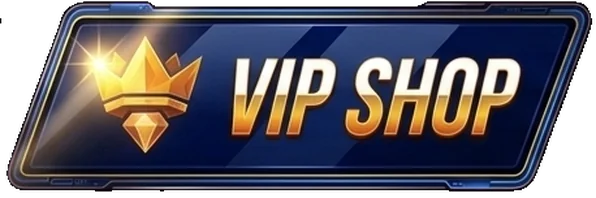
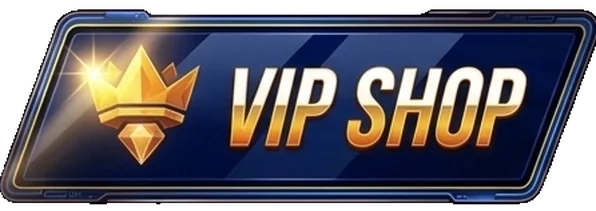
VIP shop: fixed-size shine frames, 5s interval, native window and diamond slot
- Re-cut the nine VIP button shine frames at one fixed crop size, centred on the button body, so every frame is identical in size and position
- Button sized by width only (no stretch), anchored top-left
- Shine interval 10s -> 5s
- VIP window at native 1920x1080; item grid sits in the content area
- Slots use the diamond item slot (vip_slot_q85.webp), not the inventory slot
- Bump ui.js cache tag

Claude-Session: https://claude.ai/code/session_01W4v7cyzS6Fr8aMVaGgywWE

diff --git a/index.html b/index.html
@@ -658,7 +658,7 @@
         #view-quests.float-page .ts-inner, #view-setting.float-page .ts-inner, #view-shop.float-page .ts-inner, #view-blacksmith.float-page .ts-inner, #view-market.float-page .ts-inner, #view-vip.float-page .ts-inner { background: transparent !important; }
         /* VIP shop slots: inventory slot size, diamond price under each */
         .vip-cell { display: flex; flex-direction: column; align-items: center; width: 108px; }
-        .vip-slot { position: relative; width: 108px; height: 104px; padding: 0; border: 0; background: url(assets/pages/character/inventoryslot2.png) 0 0 / 100% 100% no-repeat; cursor: pointer; }
+        .vip-slot { position: relative; width: 108px; height: 104px; padding: 0; border: 0; background: url(assets/diamond/vip/vip_slot_q85.webp) 0 0 / 100% 100% no-repeat; cursor: pointer; }
         .vip-slot img { position: absolute; inset: 10px; width: calc(100% - 20px); height: calc(100% - 20px); object-fit: contain; }
         .vip-slot:hover { filter: brightness(1.15); }
         .vip-price { margin-top: 6px; display: flex; align-items: center; justify-content: center; gap: 6px; font-size: 22px; font-weight: 800; color: #fde68a; white-space: nowrap; text-shadow: 0 2px 4px #000; }
@@ -1208,8 +1208,8 @@
             <div class="ui" data-action="blacksmith" style="left:465px; top:858px; width:206px; height:209px;">
                 <img src="assets/page01/articanbutton_q85.webp" alt="" onerror="townSwap(this,'articanbutton.png')">
             </div>
-            <div class="ui" data-action="vip" style="left:24px; top:347px; width:298px; height:99px;">
-                <img id="vip-btn-img" src="assets/diamond/vip/vip_btn_1_q85.webp" alt="VIP Shop" style="width:100%; height:100%; display:block;">
+            <div class="ui" data-action="vip" style="left:24px; top:347px; width:298px;">
+                <img id="vip-btn-img" src="assets/diamond/vip/vip_btn_1_q85.webp" alt="VIP Shop" style="width:100%; height:auto; display:block;">
             </div>
             <div class="ui" data-action="expedition" style="left:1565px; top:934px; width:300px; height:96px;">
                 <img class="exp-glow" src="assets/page01/expedition_v3_q85.webp" alt="Expedition">
@@ -1450,8 +1450,8 @@
                         <img class="ret-normal" src="assets/cha/button/returnbuttonsmall_q85.webp" alt="">
                         <img class="ret-press" src="assets/cha/button/returnbuttonpresssmall_q85.webp" alt="">
                     </div>
-                    <img class="art-frame" src="assets/diamond/vip/vip_window_q85.webp" alt="" style="left:300px; top:160px; width:1320px; height:737px;">
-                    <div id="vip-grid" style="position:absolute; z-index:3; left:377px; top:261px; width:1166px; height:614px; box-sizing:border-box; padding:36px 44px; overflow-y:auto; background:url(assets/diamond/vip/vip_slots_q85.webp) 0 0 / 100% 100% no-repeat; display:grid; grid-template-columns:repeat(auto-fill, 108px); justify-content:center; gap:34px 28px; align-content:start;"></div>
+                    <img class="art-frame" src="assets/diamond/vip/vip_window_q85.webp" alt="" style="left:0; top:0; width:1920px; height:1080px;">
+                    <div id="vip-grid" style="position:absolute; z-index:3; left:150px; top:265px; width:1620px; height:750px; box-sizing:border-box; padding:24px 40px; overflow-y:auto; display:grid; grid-template-columns:repeat(auto-fill, 108px); justify-content:center; gap:34px 28px; align-content:start;"></div>
                 </div>
             </div>
         </div>
@@ -1953,7 +1953,7 @@
     <script src="js/hero-body.js?v=20261115aj"></script>
     <script src="js/combat.js?v=20261116f"></script>
     <script src="js/crit-fx.js?v=20261110e"></script>
-    <script src="js/ui.js?v=20261116m"></script>
+    <script src="js/ui.js?v=20261116n"></script>
     <script src="js/market.js?v=20261113c"></script>
     <script src="js/guide-intro.js?v=20261116b"></script>
     <script src="js/guide-upgrade.js?v=20261113e"></script>

diff --git a/js/ui.js b/js/ui.js
@@ -2570,14 +2570,14 @@ function renderVipShop() {
     grid.scrollTop = 0;
 }
 
-// VIP shop button: the nine shine frames play once every 10 seconds (frame 1 is the base button)
+// VIP shop button: the nine shine frames play once every 5 seconds (frame 1 is the base button)
 function runVipShine() {
     const img = document.getElementById('vip-btn-img');
     if (!img) return;
     for (let f = 1; f <= 9; f++) setTimeout(() => { img.src = `assets/diamond/vip/vip_btn_${f}_q85.webp`; }, (f - 1) * 90);
     setTimeout(() => { img.src = 'assets/diamond/vip/vip_btn_1_q85.webp'; }, 9 * 90);
 }
-setInterval(runVipShine, 10000);
+setInterval(runVipShine, 5000);
 
 function renderDiamondShop() {
     let container = document.getElementById('diamond-shop-items-container');
